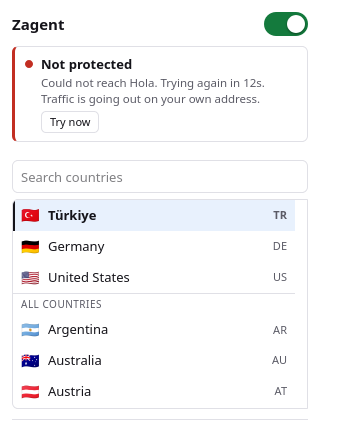
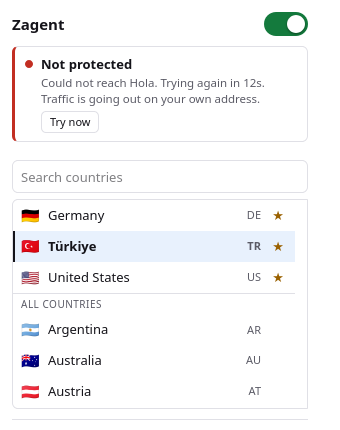
Clicking a country connects to it, and pins replace recents
Two things a fresh look caught.

Clicking a country only wrote a setting. If the tunnel was off, nothing visibly
happened and you had to go find the switch; the click looked broken. Picking a
country is the act of connecting to it, so it switches on, and moves an existing
tunnel if one is already up elsewhere.

The list also reordered itself by what you last used. That guesses at a workflow
and makes the list move under you between visits. Pins replace it: a star per
row, set by you, kept out of the way while searching because a match buried
under pins is worse than plain alphabetical order.

Verified against a live panel rather than assumed. A row click sends
{country, enabled: true}; a pin click sends only the pin and does not connect;
and from a fresh profile with the switch disabled, clicking a country still
connects.

One thing worth recording: the first attempt at this silently did nothing. The
edit script asserted its way through several replacements and threw on the last,
before writing the file, so every earlier change was discarded while the output
still read as success. The list rendered empty and the console said `recent` was
undefined.

diff --git a/src/popup/popup.js b/src/popup/popup.js
@@ -219,33 +219,48 @@ function paintTypeNote(type) {
 function renderCountries() {
   const query = el.search.value.trim().toLowerCase();
   const selected = pendingCountry ?? snapshot.settings.country;
-  const all = snapshot.countries.map((code) => ({ code, name: nameOf(code) }));
+  const pinned = new Set(snapshot.settings.pinned);
   const match = (c) => query === "" || c.name.toLowerCase().includes(query) || c.code.includes(query);
+  const all = snapshot.countries
+    .map((code) => ({ code, name: nameOf(code), pinned: pinned.has(code) }))
+    .filter(match)
+    .sort((a, b) => a.name.localeCompare(b.name));
 
-  const recent = query === "" ? snapshot.settings.recent.filter((code) => snapshot.countries.includes(code)) : [];
-  const recentSet = new Set(recent);
-  const rest = all.filter((c) => match(c) && !recentSet.has(c.code)).sort((a, b) => a.name.localeCompare(b.name));
+  // Pins only lead the list when it is the whole list. Once you are searching,
+  // a match buried under pins is worse than plain alphabetical order.
+  const lead = query === "" ? all.filter((c) => c.pinned) : [];
+  const rest = query === "" ? all.filter((c) => !c.pinned) : all;
 
-  rows = [...recent.map((code) => ({ code, name: nameOf(code) })), ...rest];
+  rows = [...lead, ...rest];
   cursor = rows.findIndex((r) => r.code === selected);
 
   const frag = document.createDocumentFragment();
   if (rows.length === 0) frag.append(plain("empty", "No match"));
   rows.forEach((row, index) => {
-    if (recent.length !== 0 && index === recent.length) frag.append(plain("divider", "All countries"));
+    if (lead.length !== 0 && index === lead.length) frag.append(plain("divider", "All countries"));
     frag.append(option(row, selected));
   });
   el.countries.replaceChildren(frag);
   paintCursor();
 }
 
-function option({ code, name }, selected) {
+function option({ code, name, pinned }, selected) {
   const li = document.createElement("li");
   li.id = `country-${code}`;
   li.dataset.code = code;
   li.setAttribute("role", "option");
   li.setAttribute("aria-selected", String(code === selected));
-  li.append(span("flag", flagOf(code)), span("name", name), span("code", code));
+
+  const pin = document.createElement("button");
+  pin.type = "button";
+  pin.className = "pin";
+  pin.dataset.pin = code;
+  pin.textContent = pinned ? "★" : "☆";
+  pin.setAttribute("aria-pressed", String(pinned));
+  pin.title = pinned ? `Unpin ${name}` : `Pin ${name} to the top`;
+  pin.setAttribute("aria-label", pin.title);
+
+  li.append(span("flag", flagOf(code)), span("name", name), span("code", code), pin);
   return li;
 }
 
@@ -304,6 +319,11 @@ function wire() {
   });
 
   el.countries.addEventListener("click", (event) => {
+    const pin = event.target.closest("[data-pin]");
+    if (pin !== null) {
+      patch(null, { type: "pin", code: pin.dataset.pin });
+      return;
+    }
     const code = event.target.closest("li")?.dataset.code;
     if (code !== undefined) pickCountry(code);
   });
@@ -345,7 +365,8 @@ function wire() {
  * Closing the popup commits the last pick, so a click then a close is not lost.
  */
 function pickCountry(code) {
-  if (code === (pendingCountry ?? snapshot.settings.country)) return;
+  const already = code === (pendingCountry ?? snapshot.settings.country) && snapshot.settings.enabled;
+  if (already) return;
   pendingCountry = code;
   renderCountries();
   if (pickTimer !== null) clearTimeout(pickTimer);
@@ -358,7 +379,8 @@ function commitPick() {
   if (pendingCountry === null) return;
   const code = pendingCountry;
   pendingCountry = null;
-  patch({ country: code });
+  // Picking a country is the act of connecting to it, so this switches on too.
+  patch({ country: code, enabled: true });
 }
 
 async function reconnect() {
@@ -366,8 +388,12 @@ async function reconnect() {
   apply(await browser.runtime.sendMessage({ type: "refresh" }));
 }
 
-async function patch(values) {
-  apply(await browser.runtime.sendMessage({ type: "patch", patch: values }));
+/**
+ * @param {object | null} values Settings to change, or null when sending `message`.
+ * @param {object} [message] A message other than a settings patch.
+ */
+async function patch(values, message) {
+  apply(await browser.runtime.sendMessage(message ?? { type: "patch", patch: values }));
 }
 
 async function verifyExit() {

diff --git a/src/background/settings.js b/src/background/settings.js
@@ -12,7 +12,7 @@
  * @property {boolean}  noPrediction Stop DNS prefetch and speculative connections.
  * @property {string[]} bypass      Hostnames kept off the tunnel. An entry also covers
  *                                  its subdomains.
- * @property {string[]} recent      Recently chosen countries, most recent first.
+ * @property {string[]} pinned      Countries the user pinned to the top of the list.
  */
 
 /** @type {Readonly<Settings>} */
@@ -24,7 +24,7 @@ export const DEFAULTS = Object.freeze({
   blockWebRTC: true,
   noPrediction: true,
   bypass: [],
-  recent: [],
+  pinned: [],
 });
 
 /** Shown until the first vpn_countries.json fetch lands. */
@@ -35,8 +35,8 @@ export const SEED_COUNTRIES = Object.freeze([
   "pt", "ro", "ru", "sa", "se", "sg", "sk", "tr", "uk", "us", "ve",
 ]);
 
-/** Enough to cover the two or three places someone actually switches between. */
-export const RECENT_MAX = 4;
+/** A pinned list longer than this stops being a shortcut. */
+export const PINNED_MAX = 8;
 
 const KEY = "settings";
 const COUNTRIES_KEY = "countries";
@@ -52,14 +52,22 @@ export async function load() {
  * @returns {Promise<Settings>}
  */
 export async function save(patch) {
-  const before = await load();
-  const merged = { ...before, ...patch };
-  if (typeof patch.country === "string" && patch.country !== before.country) {
-    merged.recent = [patch.country, ...before.recent.filter((c) => c !== patch.country)].slice(0, RECENT_MAX);
-  }
-  const next = sanitize(merged);
+  const next = sanitize({ ...(await load()), ...patch });
   await browser.storage.local.set({ [KEY]: next });
   return next;
+}
+
+/**
+ * Pinning is deliberately manual. Ordering the list by what you happened to use
+ * last guesses at a workflow; a pin is something you decided.
+ *
+ * @param {string} code
+ * @returns {Promise<Settings>}
+ */
+export async function togglePinned(code) {
+  const current = (await load()).pinned;
+  const pinned = current.includes(code) ? current.filter((c) => c !== code) : [...current, code];
+  return save({ pinned });
 }
 
 /** @returns {Promise<{ codes: string[], fetchedAt: number }>} */
@@ -101,7 +109,7 @@ function sanitize(raw) {
     blockWebRTC: v.blockWebRTC !== false,
     noPrediction: v.noPrediction !== false,
     bypass: Array.isArray(v.bypass) ? normalizeBypass(v.bypass) : [],
-    recent: Array.isArray(v.recent) ? v.recent.filter(isCountryCode).slice(0, RECENT_MAX) : [],
+    pinned: Array.isArray(v.pinned) ? [...new Set(v.pinned.filter(isCountryCode))].slice(0, PINNED_MAX) : [],
   };
 }
 

diff --git a/src/popup/popup.css b/src/popup/popup.css
@@ -303,6 +303,40 @@ textarea {
   text-transform: uppercase;
 }
 
+/* Kept in the layout at all times so pinning does not shift the row under the
+   pointer, and only inked when it is pinned, hovered or focused. */
+.pin {
+  flex: none;
+  width: 18px;
+  padding: 0;
+  border: 0;
+  background: none;
+  color: transparent;
+  font-size: 13px;
+  line-height: 1;
+  cursor: pointer;
+}
+
+.countries li:hover .pin,
+.pin:focus-visible,
+.pin[aria-pressed="true"] {
+  color: var(--muted);
+}
+
+.pin[aria-pressed="true"] {
+  color: var(--wait);
+}
+
+.pin:hover {
+  color: var(--fg);
+}
+
+.pin:focus-visible {
+  outline: 2px solid var(--fg);
+  outline-offset: 1px;
+  border-radius: 3px;
+}
+
 .countries .divider {
   padding: 3px 8px;
   border-top: 1px solid var(--line);

diff --git a/src/background/main.js b/src/background/main.js
@@ -174,6 +174,11 @@ browser.runtime.onMessage.addListener((msg) => {
         await apply(next);
         return snapshot();
       });
+    case "pin":
+      return settings.togglePinned(msg.code).then(async (next) => {
+        current = next;
+        return snapshot();
+      });
     case "refresh":
       session.refresh("requested from the popup", 0);
       return snapshot();

diff --git a/README.md b/README.md
@@ -98,8 +98,17 @@ block, because retrying through a block is what causes blocks.
 the agent chain changes so it cannot go stale. It is the only thing here that
 contacts a third party, and only when you press it.
 
-The country list keeps your last four at the top. The panel does not grab focus
-when it opens; typing anywhere filters. Arrows move, Enter picks, Escape clears.
+**Clicking a country connects to it.** If the tunnel is off it comes on; if it
+is already up elsewhere it moves. A click that only changed a setting and waited
+for you to find the switch was a click that appeared to do nothing.
+
+Pin countries with the star to keep them at the top. Pins are yours to set, not
+inferred from what you happened to use last. They step aside while you are
+searching, since a match buried under pins is worse than plain alphabetical
+order.
+
+The panel does not grab focus when it opens; typing anywhere filters. Arrows
+move, Enter picks, Escape clears.
 
 ## Settings
 

diff --git a/docs/development.md b/docs/development.md
@@ -8,7 +8,7 @@ No dependencies. Node 24 or newer.
 npm test
 ```
 
-61 tests. The interesting ones are `test/router.test.mjs`, where `hostOf` is
+62 tests. The interesting ones are `test/router.test.mjs`, where `hostOf` is
 checked against the platform URL parser over a corpus,
 `test/session.test.mjs`, where the whole lifecycle runs against a stubbed
 `fetch` with mocked timers, and `test/main.test.mjs`, which stubs the
